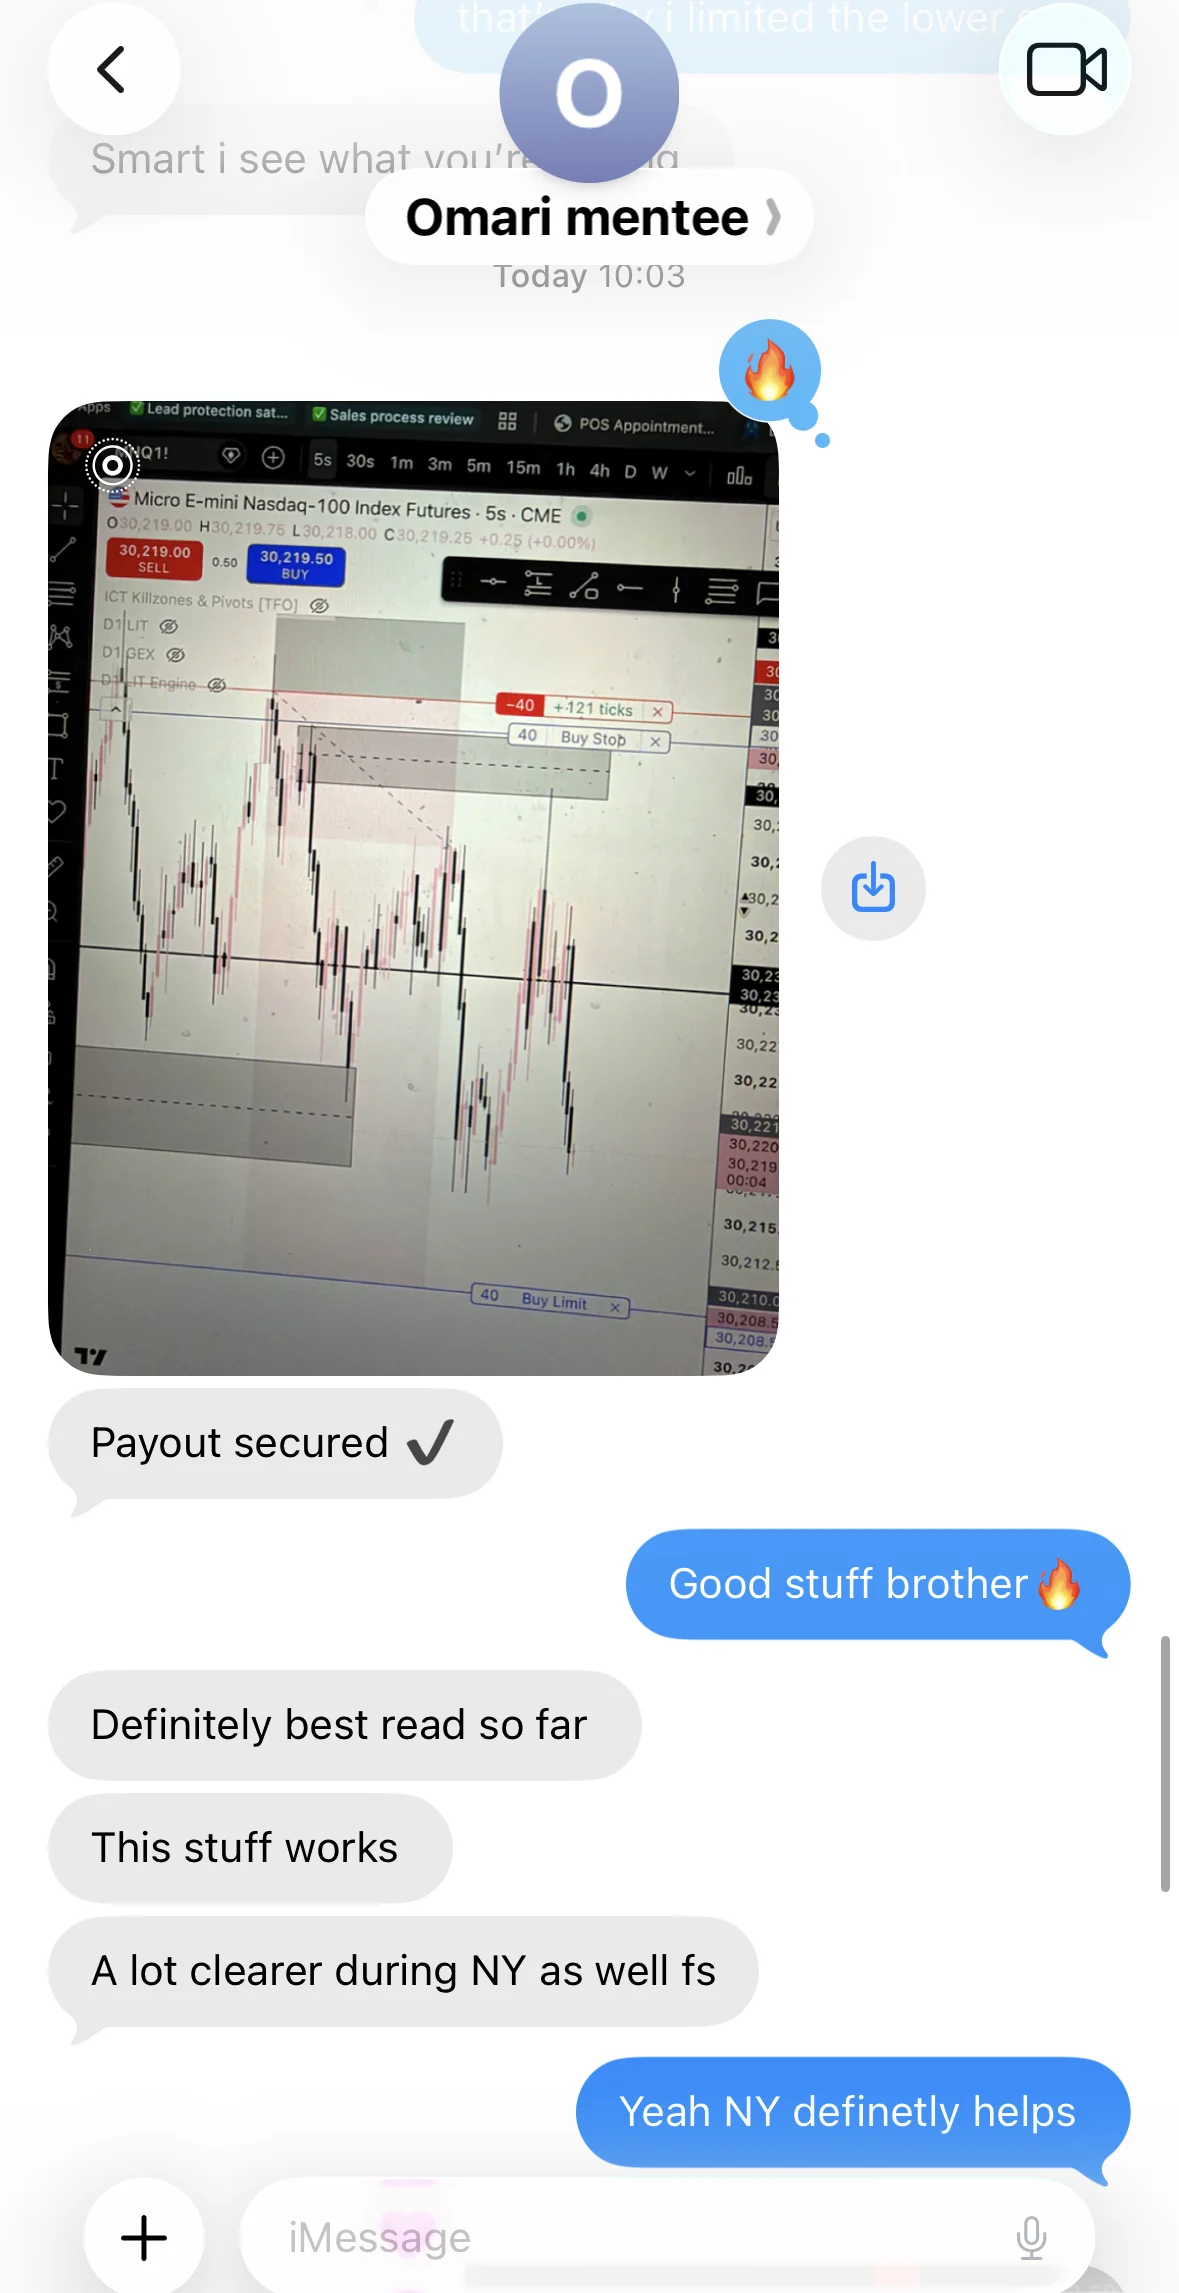
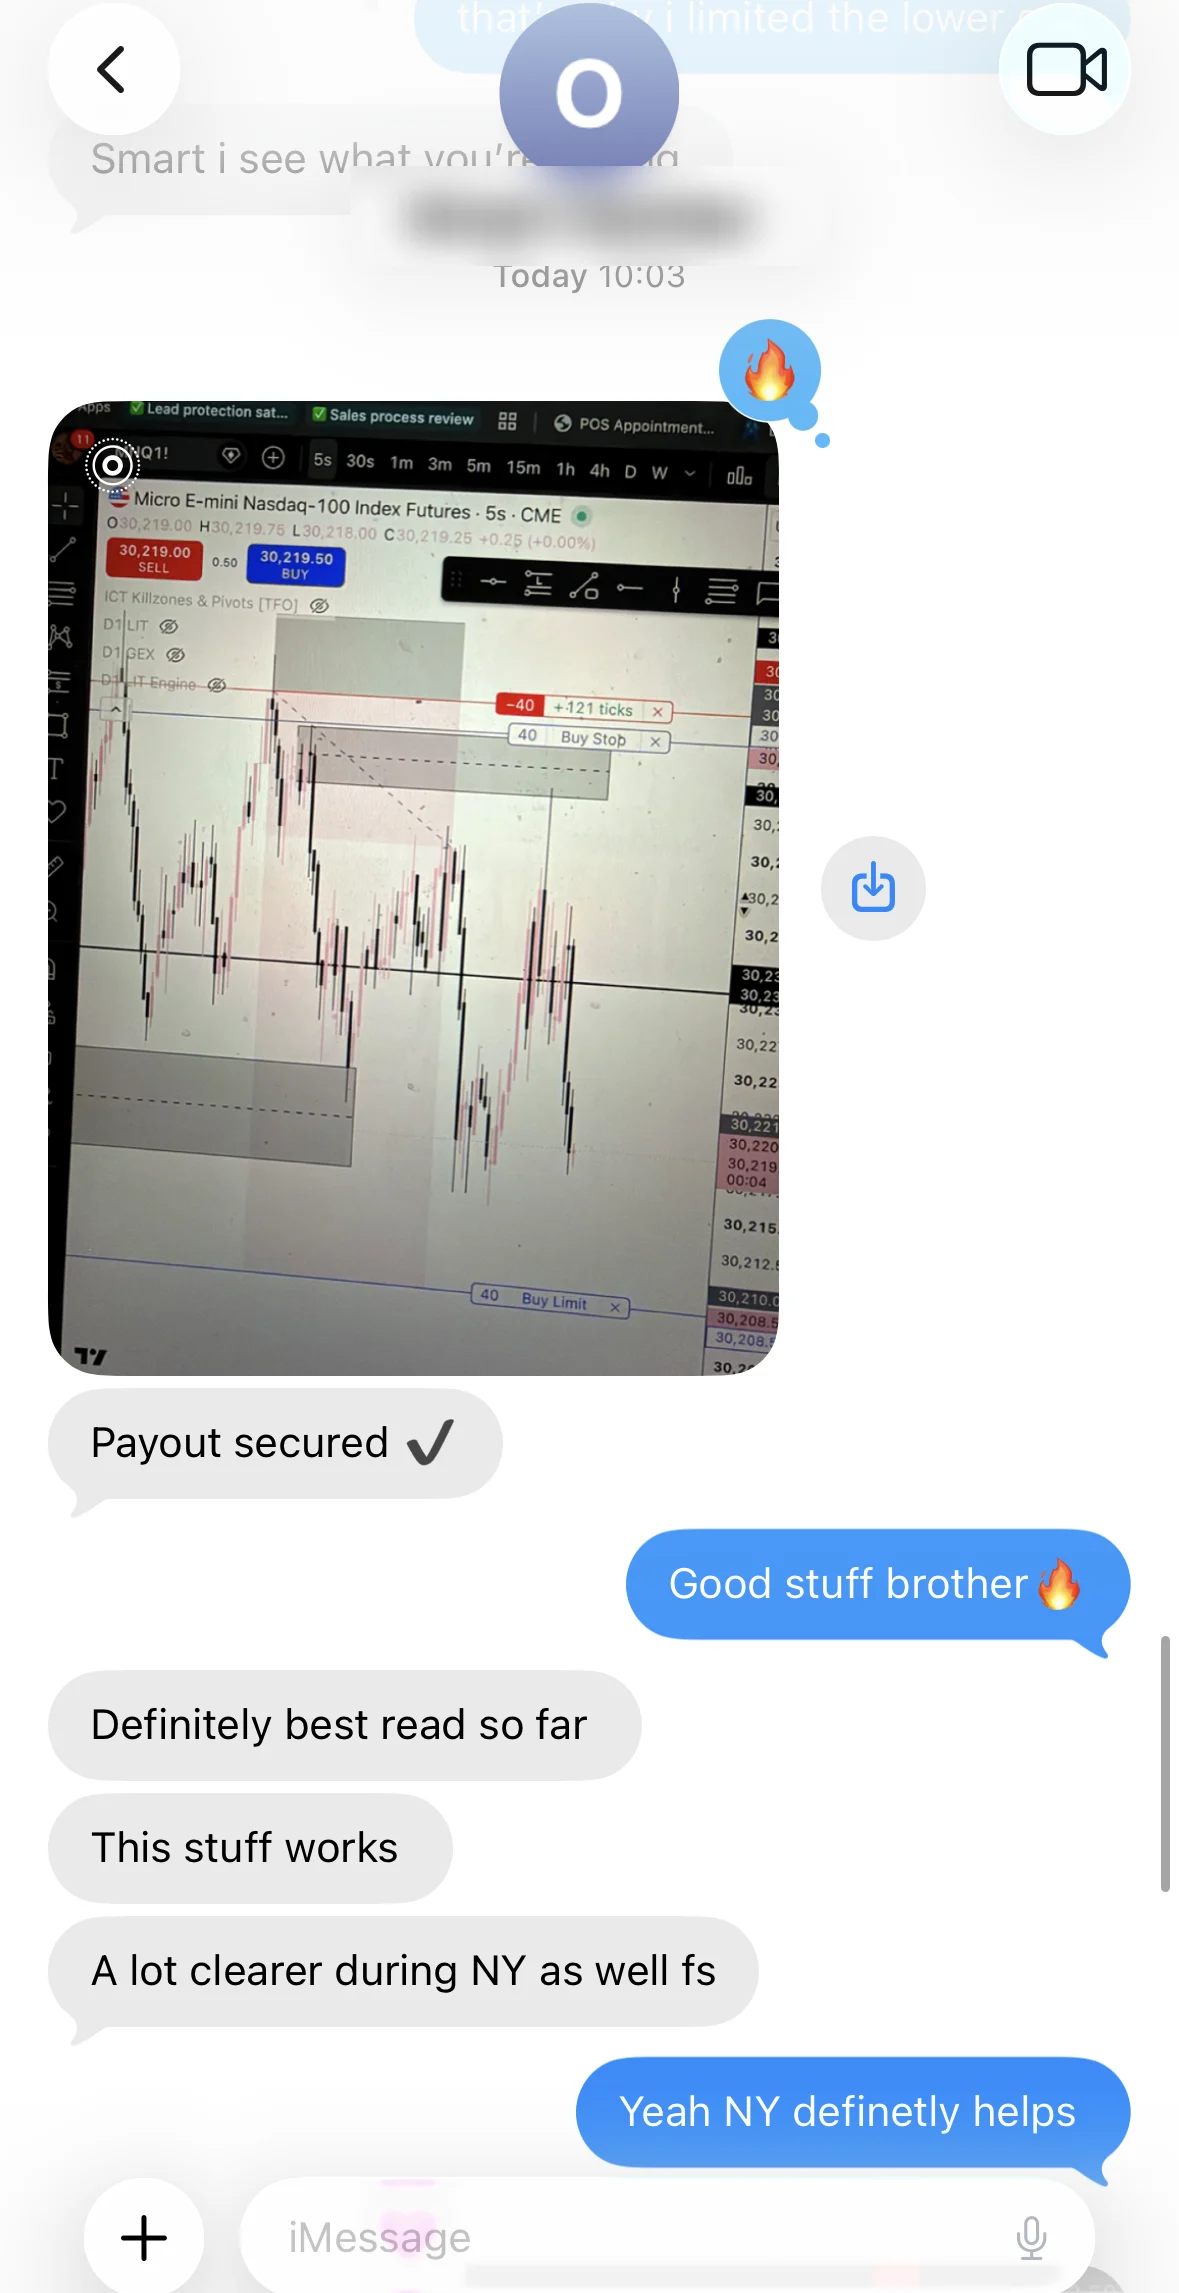
Trades carousel: blurred student details + endless marquee
The two iMessage screenshots get the student's name pill and visible
account balance blurred (applied to the drop-folder originals so every
future sync keeps it). The carousel switches from step-every-5s to a
continuous never-ending drift: the image list is doubled and the track
wraps invisibly at the halfway point, pausing under a pointer or touch;
reduced-motion visitors keep the static snap carousel.

Changed region(s): [[0.3359, 0.0619, 0.6718, 0.1239]]

diff --git a/index.html b/index.html
@@ -819,28 +819,39 @@
       .then(function (list) {
         if (!Array.isArray(list) || !list.length) return;
         var wrap = document.getElementById('trades'), track = document.getElementById('tr-track');
-        list.forEach(function (f) {
-          var img = document.createElement('img');
-          img.src = '/echelon/trades/' + f;
-          img.alt = 'Member trade screenshot';
-          img.loading = 'lazy';
-          track.appendChild(img);
-        });
+        var addAll = function (hidden) {
+          list.forEach(function (f) {
+            var img = document.createElement('img');
+            img.src = '/echelon/trades/' + f;
+            img.alt = hidden ? '' : 'Member trade screenshot';
+            if (hidden) img.setAttribute('aria-hidden', 'true');
+            track.appendChild(img);
+          });
+        };
+        addAll(false);
         wrap.hidden = false;
         var step = function () { return Math.max(240, track.clientWidth * 0.7) };
         document.getElementById('tr-prev').addEventListener('click', function () { track.scrollBy({ left: -step(), behavior: 'smooth' }) });
         document.getElementById('tr-next').addEventListener('click', function () { track.scrollBy({ left: step(), behavior: 'smooth' }) });
         if (matchMedia('(prefers-reduced-motion: reduce)').matches) return;
+        /* Never-ending marquee: the list is doubled and the track drifts a
+           little every frame; passing the first copy's end snaps back one
+           copy-width, which is invisible. Pauses under a pointer or touch. */
+        addAll(true);
+        track.style.scrollSnapType = 'none';
         var hold = false;
         wrap.addEventListener('pointerenter', function () { hold = true });
         wrap.addEventListener('pointerleave', function () { hold = false });
         wrap.addEventListener('touchstart', function () { hold = true }, { passive: true });
-        setInterval(function () {
-          if (hold || document.hidden) return;
-          var atEnd = track.scrollLeft + track.clientWidth >= track.scrollWidth - 8;
-          if (atEnd) track.scrollTo({ left: 0, behavior: 'smooth' });
-          else track.scrollBy({ left: step(), behavior: 'smooth' });
-        }, 5000);
+        wrap.addEventListener('touchend', function () { setTimeout(function () { hold = false }, 4000) }, { passive: true });
+        (function tick() {
+          if (!hold && !document.hidden) {
+            var half = track.scrollWidth / 2;
+            track.scrollLeft += 0.6;
+            if (half > 0 && track.scrollLeft >= half) track.scrollLeft -= half;
+          }
+          requestAnimationFrame(tick);
+        })();
       })
       .catch(function () {});
   })();
